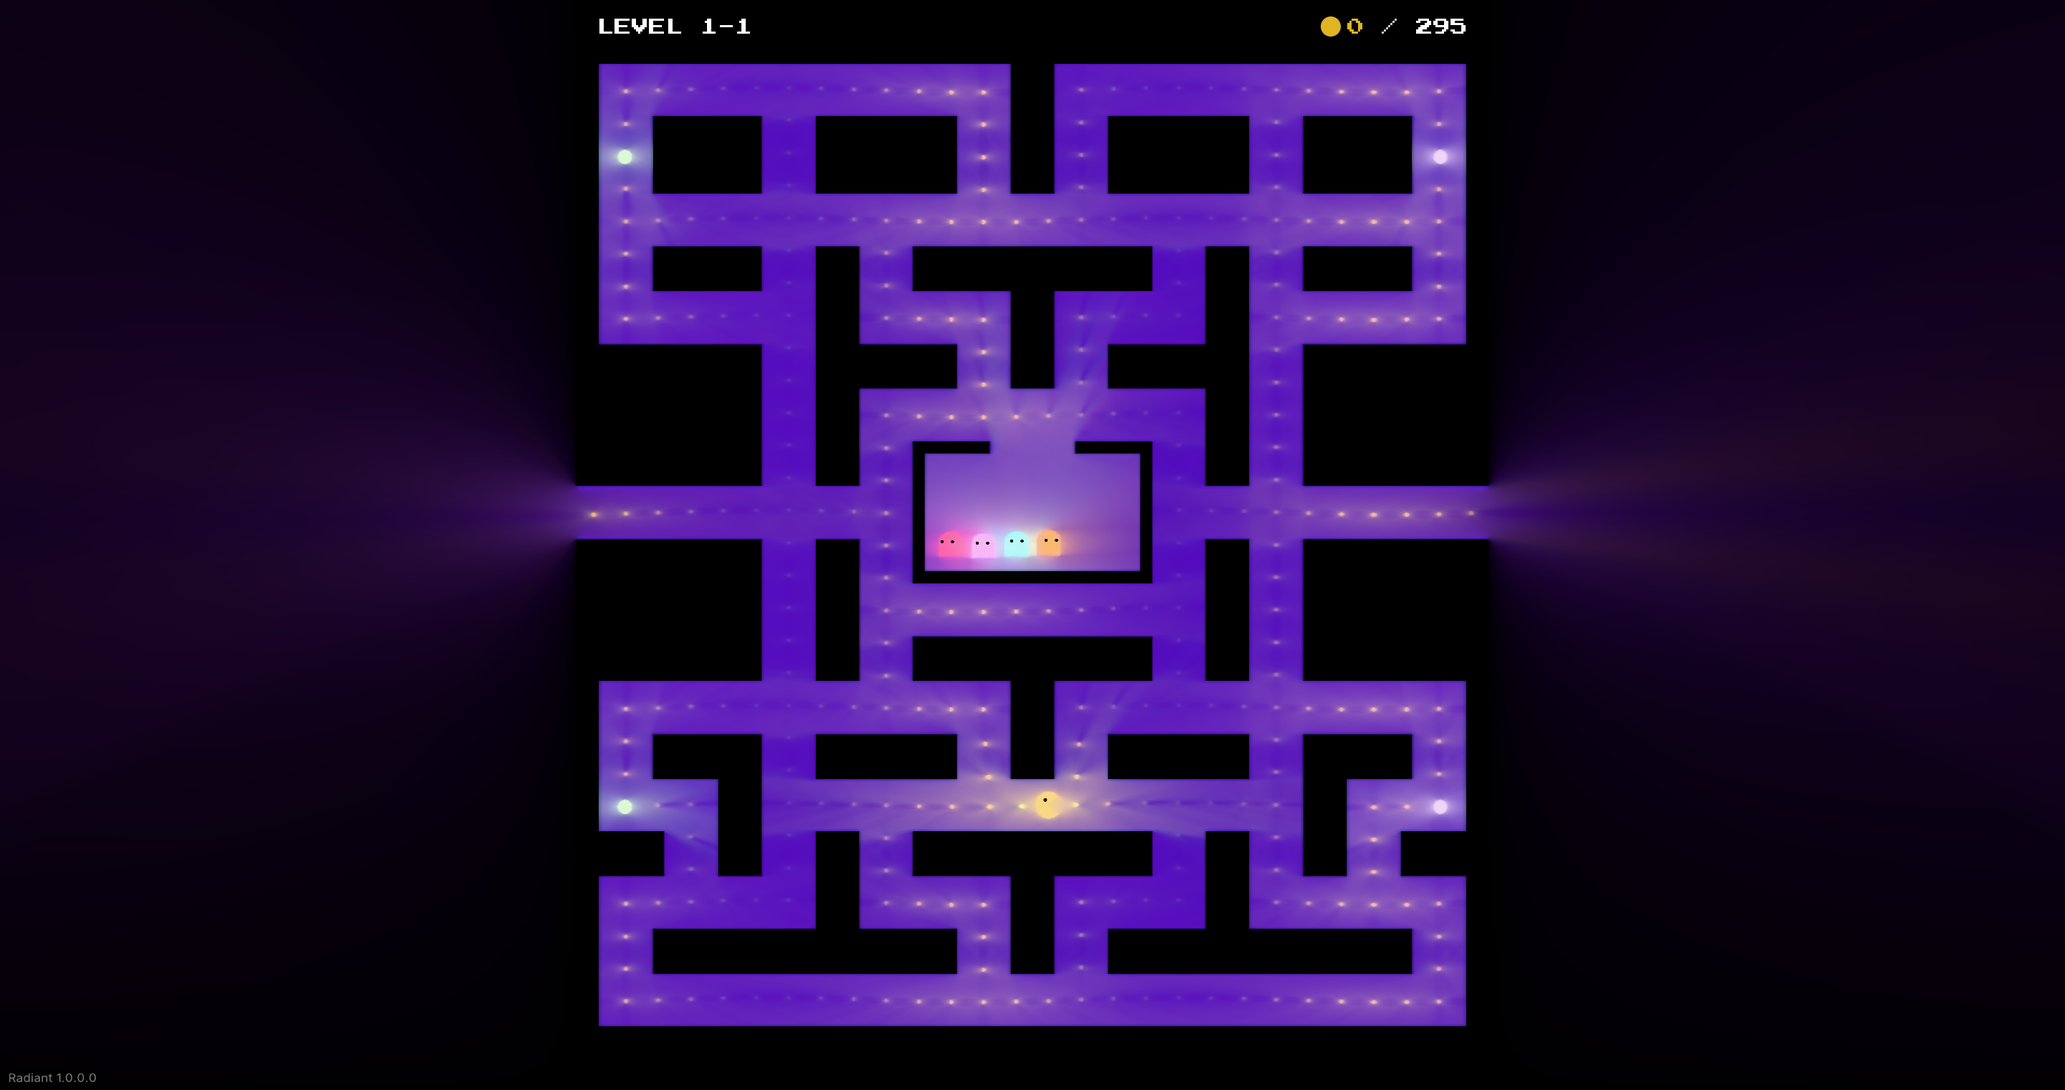
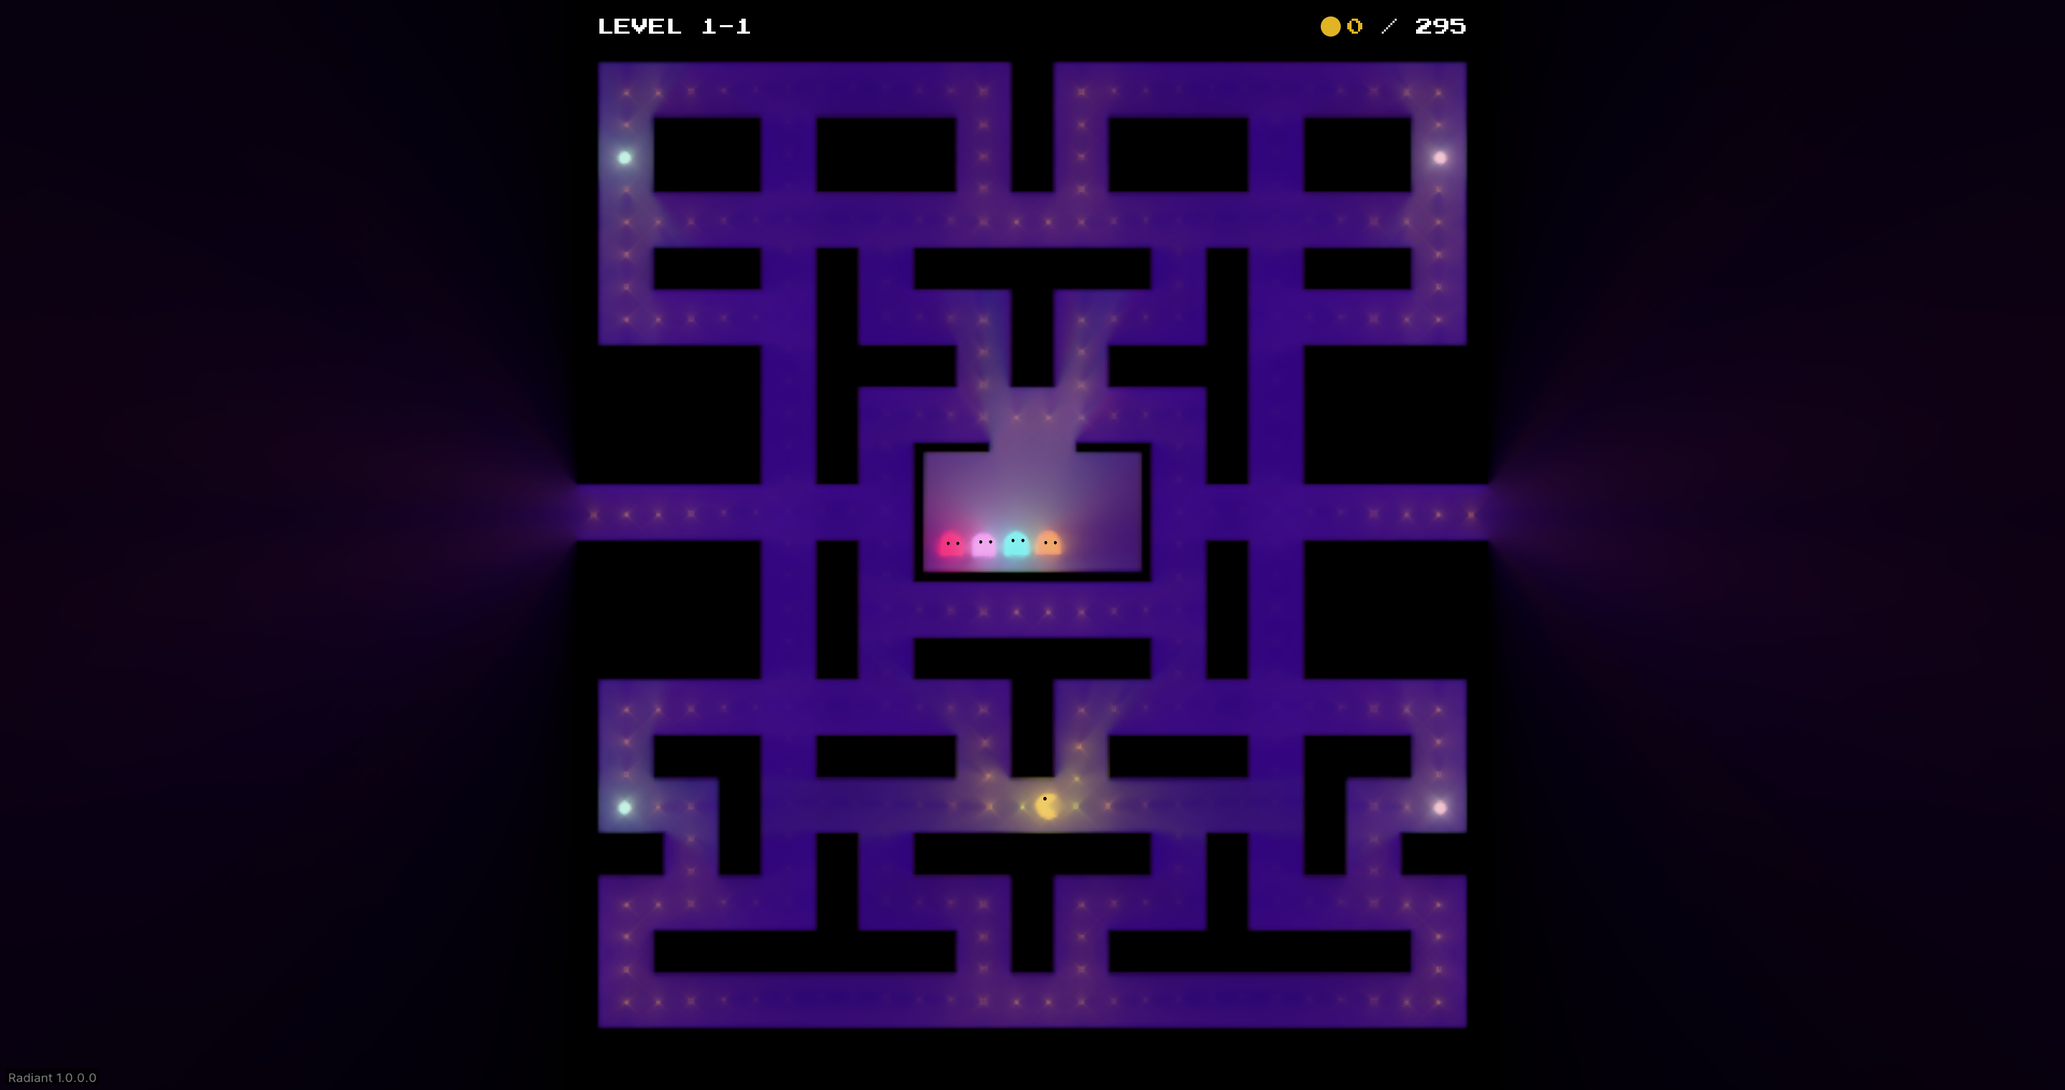
Migrate Pac-Man to Radiant 2D ECS and refresh gameplay captures

Changed region(s): [[0.1875, 0.0309, 0.8438, 0.9579]]

diff --git a/src/Gameplay/PacmanGhostAI.cs b/src/Gameplay/PacmanGhostAI.cs
@@ -205,7 +205,7 @@ public class PacmanGhostAI : com.radiant.engine.core.System
                 material.Emissive = GhostColors[ghostIndex];
             }
 
-            ref var transform = ref Scene.ECS.GetComponent<Transform>(GhostIds[ghostIndex]);
+            ref var transform = ref Scene.ECS.GetComponent<Transform2D>(GhostIds[ghostIndex]);
             var position = new Vector2(transform.Position.X, transform.Position.Y);
             EyePositions[ghostIndex] = position;
             PreviousPositions[ghostIndex] = position;
@@ -364,7 +364,7 @@ public class PacmanGhostAI : com.radiant.engine.core.System
             if (GhostIds[ghostIndex] == -1 || !Scene.ECS.IsAlive(GhostIds[ghostIndex])) continue;
             if (Scene.ECS.IsDisabled(GhostIds[ghostIndex])) continue;
 
-            ref var transform = ref Scene.ECS.GetComponent<Transform>(GhostIds[ghostIndex]);
+            ref var transform = ref Scene.ECS.GetComponent<Transform2D>(GhostIds[ghostIndex]);
             PreviousPositions[ghostIndex] = new Vector2(transform.Position.X, transform.Position.Y);
         }
 
@@ -375,10 +375,11 @@ public class PacmanGhostAI : com.radiant.engine.core.System
                 if (GhostIds[ghostIndex] == -1 || !Scene.ECS.IsAlive(GhostIds[ghostIndex])) continue;
                 if (Scene.ECS.IsDisabled(GhostIds[ghostIndex])) continue;
 
-                ref var transform = ref Scene.ECS.GetComponent<Transform>(GhostIds[ghostIndex]);
+                ref var transform = ref Scene.ECS.GetComponent<Transform2D>(GhostIds[ghostIndex]);
                 float wobble = MathF.Sin(IdleTime * 3f + ghostIndex * 1.7f) * 3f;
                 var position = Positions[ghostIndex];
-                transform.Position = new Vector3(position.X, position.Y + wobble, GhostDepth);
+                transform.Position = new Vector2(position.X, position.Y + wobble);
+                transform.Layer = GhostDepth;
             }
 
             return;
@@ -422,7 +423,7 @@ public class PacmanGhostAI : com.radiant.engine.core.System
                 currentMoveDistance = moveDistance * speedMultiplier;
             }
 
-            ref var transform = ref Scene.ECS.GetComponent<Transform>(GhostIds[ghostIndex]);
+            ref var transform = ref Scene.ECS.GetComponent<Transform2D>(GhostIds[ghostIndex]);
             var position = Positions[ghostIndex];
             var targetPosition = Maze.CellCenter(GhostTargets[ghostIndex].x, GhostTargets[ghostIndex].y);
 
@@ -452,9 +453,10 @@ public class PacmanGhostAI : com.radiant.engine.core.System
             // Apply visual wobble without changing the maze position.
             var (directionX, directionY) = GhostDirections[ghostIndex];
             float wobble = MathF.Sin(ElapsedTime * 5f + ghostIndex * 2.5f) * 4f;
-            transform.Position = new Vector3(
+            transform.Position = new Vector2(
                 position.X + (directionY != 0 ? wobble : 0f),
-                position.Y + (directionX != 0 ? wobble : 0f), GhostDepth);
+                position.Y + (directionX != 0 ? wobble : 0f));
+            transform.Layer = GhostDepth;
 
             if (ExitedHouse[ghostIndex] && !Eaten[ghostIndex] && RespawnTimer[ghostIndex] <= 0f
                 && Player != null && !Player.PlayerCaught)
@@ -948,7 +950,7 @@ public class PacmanGhostAI : com.radiant.engine.core.System
         RainbowEyeDirections = new (int, int)[rainbowCapacity];
         RainbowLogicalPositions = new Vector2[rainbowCapacity];
 
-        ref var transform = ref Scene.ECS.GetComponent<Transform>(RainbowMainId);
+        ref var transform = ref Scene.ECS.GetComponent<Transform2D>(RainbowMainId);
         var position = new Vector2(transform.Position.X, transform.Position.Y);
         RainbowEyePositions[0] = position;
         RainbowPreviousPositions[0] = position;
@@ -1105,10 +1107,11 @@ public class PacmanGhostAI : com.radiant.engine.core.System
 
         if (Player == null || !Player.HasMoved)
         {
-            ref var transform = ref Scene.ECS.GetComponent<Transform>(RainbowMainId);
+            ref var transform = ref Scene.ECS.GetComponent<Transform2D>(RainbowMainId);
             var position = RainbowLogicalPositions[0];
             float wobble = MathF.Sin(RainbowIdleTime * 3f) * 3f;
-            transform.Position = new Vector3(position.X, position.Y + wobble, GhostDepth);
+            transform.Position = new Vector2(position.X, position.Y + wobble);
+            transform.Layer = GhostDepth;
             return;
         }
 
@@ -1267,10 +1270,10 @@ public class PacmanGhostAI : com.radiant.engine.core.System
 
         for (int cloneIndex = RainbowCloneCount - 1; cloneIndex >= 0; cloneIndex--)
         {
-            ref var cloneTransform = ref Scene.ECS.GetComponent<Transform>(RainbowCloneIds[cloneIndex]);
+            ref var cloneTransform = ref Scene.ECS.GetComponent<Transform2D>(RainbowCloneIds[cloneIndex]);
             var clonePosition = new Vector2(cloneTransform.Position.X, cloneTransform.Position.Y);
 
-            ref var mainTransform = ref Scene.ECS.GetComponent<Transform>(RainbowMainId);
+            ref var mainTransform = ref Scene.ECS.GetComponent<Transform2D>(RainbowMainId);
             var mainPosition = new Vector2(mainTransform.Position.X, mainTransform.Position.Y);
 
             if ((clonePosition - mainPosition).LengthSquared() < mergeDistanceSquared)
@@ -1281,7 +1284,7 @@ public class PacmanGhostAI : com.radiant.engine.core.System
 
             for (int otherIndex = cloneIndex - 1; otherIndex >= 0; otherIndex--)
             {
-                ref var otherTransform = ref Scene.ECS.GetComponent<Transform>(RainbowCloneIds[otherIndex]);
+                ref var otherTransform = ref Scene.ECS.GetComponent<Transform2D>(RainbowCloneIds[otherIndex]);
                 var otherPosition = new Vector2(otherTransform.Position.X, otherTransform.Position.Y);
 
                 if ((clonePosition - otherPosition).LengthSquared() < mergeDistanceSquared)
@@ -1326,7 +1329,7 @@ public class PacmanGhostAI : com.radiant.engine.core.System
         else if (RainbowFrightenedTimer > 0f)
             moveDistance *= FrightenedSpeedMultiplier;
 
-        ref var transform = ref Scene.ECS.GetComponent<Transform>(entityId);
+        ref var transform = ref Scene.ECS.GetComponent<Transform2D>(entityId);
         var position = RainbowLogicalPositions[eyeIndex];
         var targetPosition = Maze.CellCenter(targetCell.x, targetCell.y);
 
@@ -1404,9 +1407,10 @@ public class PacmanGhostAI : com.radiant.engine.core.System
 
         // Apply visual wobble without changing the maze position.
         float wobble = MathF.Sin(RainbowElapsedTime * 5f + eyeIndex * 2.5f) * 4f;
-        transform.Position = new Vector3(
+        transform.Position = new Vector2(
             position.X + (direction.dy != 0 ? wobble : 0f),
-            position.Y + (direction.dx != 0 ? wobble : 0f), GhostDepth);
+            position.Y + (direction.dx != 0 ? wobble : 0f));
+        transform.Layer = GhostDepth;
         RainbowEyeDirections[eyeIndex] = direction;
 
         if (Player != null && !Player.PlayerCaught && RainbowMainExitedHouse
@@ -1722,13 +1726,13 @@ public class PacmanGhostAI : com.radiant.engine.core.System
     private void RainbowShiftEyeHistory()
     {
         RainbowEyePositions[0] = RainbowPreviousPositions[0];
-        ref var mainTransform = ref Scene.ECS.GetComponent<Transform>(RainbowMainId);
+        ref var mainTransform = ref Scene.ECS.GetComponent<Transform2D>(RainbowMainId);
         RainbowPreviousPositions[0] = new Vector2(mainTransform.Position.X, mainTransform.Position.Y);
 
         for (int cloneIndex = 0; cloneIndex < RainbowCloneCount; cloneIndex++)
         {
             RainbowEyePositions[1 + cloneIndex] = RainbowPreviousPositions[1 + cloneIndex];
-            ref var cloneTransform = ref Scene.ECS.GetComponent<Transform>(RainbowCloneIds[cloneIndex]);
+            ref var cloneTransform = ref Scene.ECS.GetComponent<Transform2D>(RainbowCloneIds[cloneIndex]);
             RainbowPreviousPositions[1 + cloneIndex] = new Vector2(cloneTransform.Position.X, cloneTransform.Position.Y);
         }
     }

diff --git a/src/Scenes/PacmanMazeLevelScene.cs b/src/Scenes/PacmanMazeLevelScene.cs
@@ -192,7 +192,8 @@ public class PacmanMazeLevelScene : Scene
         UpscalerGroup = new SystemGroup("Upscaler",
             ("UDR1.0", ECS.AddSystem<UDR1>(enabled: false)),
             ("UDR2.0", ECS.AddSystem<UDR2>(enabled: false)),
-            ("UDR3.0", ECS.AddSystem<UDR3>())
+            ("UDR3.0", ECS.AddSystem<UDR3>(enabled: false)),
+            ("UDR4.0", ECS.AddSystem<UDR4>())
         );
         ECS.RegisterSystemGroup(UpscalerGroup);
 
@@ -283,6 +284,7 @@ public class PacmanMazeLevelScene : Scene
 
     private void LoadLevel(int levelIndex)
     {
+        ECS.GetSystem<UDR4>()?.ResetHistory();
         GhostAI.Clear();
         GhostAI.ClearRainbow();
         PlayerController.Clear();
@@ -478,11 +480,11 @@ public class PacmanMazeLevelScene : Scene
                 (byte)MathF.Min(BaseCoinColor.B * brightness, 255f),
                 alpha);
 
-            ref var coinTransform = ref ECS.GetComponent<Transform>(coinId);
+            ref var coinTransform = ref ECS.GetComponent<Transform2D>(coinId);
             coinTransform.Position.X = coinX;
             coinTransform.Position.Y = coinY;
             float coinScale = 1f + proximity * 0.6f;
-            coinTransform.Scale = new Vector3(coinScale, coinScale, 1f);
+            coinTransform.Scale = new Vector2(coinScale);
         }
 
         foreach (var (cell, pelletId) in Maze.PowerPelletCells)
@@ -522,11 +524,11 @@ public class PacmanMazeLevelScene : Scene
                 (byte)MathF.Min((255f * (1f - tint) + rainbow.B * tint) * brightness, 255f),
                 BasePowerPelletColor.A);
 
-            ref var pelletTransform = ref ECS.GetComponent<Transform>(pelletId);
+            ref var pelletTransform = ref ECS.GetComponent<Transform2D>(pelletId);
             pelletTransform.Position.X = pelletX;
             pelletTransform.Position.Y = pelletY;
             float pelletScale = 1f + proximity * 0.6f;
-            pelletTransform.Scale = new Vector3(pelletScale, pelletScale, 1f);
+            pelletTransform.Scale = new Vector2(pelletScale);
         }
 
         Inspector.SetLabel("scene", "level", $"Level: {CurrentLevel + 1}/{Levels.Length}");
@@ -545,6 +547,7 @@ public class PacmanMazeLevelScene : Scene
                 case UDR1 firstUpscaler: firstUpscaler.SetInputSource(colorOutput); break;
                 case UDR2 secondUpscaler: secondUpscaler.SetInputSource(colorOutput); break;
                 case UDR3 thirdUpscaler: thirdUpscaler.SetInputSource(colorOutput); break;
+                case UDR4 temporalUpscaler: temporalUpscaler.SetInputSource(colorOutput); break;
             }
         });
     }
@@ -569,12 +572,13 @@ public class PacmanMazeLevelScene : Scene
 
     private void UpdateWindowVisibility()
     {
-        string[] upscalerWindows = ["udr1", "udr2", "udr3"];
+        string[] upscalerWindows = ["udr1", "udr2", "udr3", "udr4"];
         string activeWindow = UpscalerEnabled ? UpscalerGroup.Active switch
         {
             UDR1 => "udr1",
             UDR2 => "udr2",
             UDR3 => "udr3",
+            UDR4 => "udr4",
             null => "",
             _ => ""
         } : "";

diff --git a/tests/Pacman.Tests/RenderingWindow.cs b/tests/Pacman.Tests/RenderingWindow.cs
@@ -14,6 +14,9 @@ sealed class RenderingWindow : Window
     private readonly PacmanMazeLevelScene Scene = new();
     private readonly (int width, int height, int quality, int upscaler)[] Cases =
     [
+        (1280, 720, 1, 3),
+        (1024, 640, 2, 3),
+        (800, 1000, 0, 3),
         (1280, 720, 1, 2),
         (1024, 640, 2, 2),
         (800, 1000, 0, 2),
@@ -86,7 +89,8 @@ sealed class RenderingWindow : Window
 
         player.Track(player.EntityId, (1, 23), 65530f);
         var playerCenter = maze.CellCenter(1, 23);
-        Scene.ECS.GetComponent<Transform>(player.EntityId).Position = new Vector3(playerCenter, 65530f);
+        Scene.ECS.GetComponent<Transform2D>(player.EntityId).Position = playerCenter;
+        Scene.ECS.GetComponent<Transform2D>(player.EntityId).Layer = 65530f;
         CharacterCenters.Add(playerCenter);
         Scene.ECS.GameplayPaused = true;
         Scene.ECS.AnimationPaused = true;
@@ -168,13 +172,24 @@ sealed class RenderingWindow : Window
             throw new Exception("Tonemapping did not follow lighting resolution.");
 
         com.radiant.engine.core.System[] upscalers =
-        [Scene.ECS.GetSystem<UDR1>(), Scene.ECS.GetSystem<UDR2>(), Scene.ECS.GetSystem<UDR3>()];
+        [Scene.ECS.GetSystem<UDR1>(), Scene.ECS.GetSystem<UDR2>(), Scene.ECS.GetSystem<UDR3>(), Scene.ECS.GetSystem<UDR4>()];
         if (upscalers.Count(upscaler => upscaler.Enabled) != 1 || !upscalers[testCase.upscaler].Enabled)
             throw new Exception("Exactly the selected upscaler must be active.");
+        var temporal = Scene.ECS.GetSystem<UDR4>();
+        if (temporal.Enabled && testCase.quality != 2)
+        {
+            if (temporal.HistoryFrames < 2 || Scene.ECS.GetSystem<Geometry>().TemporalMotionTexture == null)
+                throw new Exception("UDR4 is not accumulating history or receiving precise motion.");
+            var output = temporal.GetOutput();
+            if (output.Width != renderer.ScreenWidth || output.Height != renderer.ScreenHeight)
+                throw new Exception("UDR4 output dimensions are incorrect.");
+        }
+        if ((!temporal.Enabled || testCase.quality == 2) && Scene.ECS.GetSystem<HRCGI>().OutputJitter != Vector2.Zero)
+            throw new Exception("UDR4 jitter leaked into another upscaler or Native mode.");
         if (testCase.quality == 2 && testCase.upscaler > 0)
         {
             var active = upscalers[testCase.upscaler];
-            int accumulatedFrames = (int)active.GetType().GetField("FrameIndex", BindingFlags.Instance | BindingFlags.NonPublic).GetValue(active);
+            int accumulatedFrames = active is UDR4 temporalUpscaler ? temporalUpscaler.HistoryFrames : (int)active.GetType().GetField("FrameIndex", BindingFlags.Instance | BindingFlags.NonPublic).GetValue(active);
             if (accumulatedFrames != 0)
                 throw new Exception("Native mode still runs unused temporal upscaling passes.");
         }

diff --git a/tests/Pacman.Tests/GameplayCaptureWindow.cs b/tests/Pacman.Tests/GameplayCaptureWindow.cs
@@ -1,0 +1,37 @@
+using System;
+using System.IO;
+using System.Linq;
+using com.radiant.engine.runtime;
+using Microsoft.Xna.Framework;
+using RaytracingPacman;
+
+sealed class GameplayCaptureWindow : Window
+{
+    private readonly PacmanMazeLevelScene scene = new();
+    private int frame;
+
+    public GameplayCaptureWindow() : base(new GameLoop(), new() { Title = "Pac-Man gameplay capture", Width = 2880, Height = 1521 })
+    {
+        GameLoop.AddScene(scene);
+        GameLoop.ThrottleUnfocused = false;
+        GameLoop.SetTargetFps(0);
+    }
+
+    protected override void Draw(GameTime gameTime)
+    {
+        base.Draw(gameTime);
+        if (++frame != 12) return;
+
+        var target = scene.Renderer.SceneRT;
+        var pixels = new Color[target.Width * target.Height];
+        target.GetData(pixels);
+        if (target.Width != 2880 || target.Height != 1521 || pixels.Count(pixel => pixel.R > 12 || pixel.G > 12 || pixel.B > 12) < 5000)
+            throw new Exception("Gameplay capture is empty or has the wrong resolution.");
+
+        Directory.CreateDirectory("artifacts/captures");
+        using var output = File.Create("artifacts/captures/gameplay-maximized.png");
+        target.SaveAsPng(output, target.Width, target.Height);
+        Console.WriteLine("CAPTURE: unedited 2880×1521 gameplay frame.");
+        Exit();
+    }
+}

diff --git a/src/Gameplay/PacmanPlayerController.cs b/src/Gameplay/PacmanPlayerController.cs
@@ -151,7 +151,7 @@ public class PacmanPlayerController : com.radiant.engine.core.System
 
         if (!Scene.ECS.IsAlive(EntityId)) return;
 
-        ref var transform = ref Scene.ECS.GetComponent<Transform>(EntityId);
+        ref var transform = ref Scene.ECS.GetComponent<Transform2D>(EntityId);
 
         var position = WorldPosition;
         var targetPosition = Maze.CellCenter(TargetCell.x, TargetCell.y);
@@ -203,7 +203,8 @@ public class PacmanPlayerController : com.radiant.engine.core.System
         float wobble = MathF.Sin(IdleTime * 3f) * 3f;
         WobbleX = CurrentDirection.dy != 0 ? wobble : 0f;
         WobbleY = CurrentDirection.dy != 0 ? 0f : wobble;
-        transform.Position = new Vector3(position.X + WobbleX, position.Y + WobbleY, Depth);
+        transform.Position = new Vector2(position.X + WobbleX, position.Y + WobbleY);
+        transform.Layer = Depth;
         WorldPosition = position;
 
         if (CurrentDirection != (0, 0))

diff --git a/tests/Pacman.Tests/Program.cs b/tests/Pacman.Tests/Program.cs
@@ -41,6 +41,11 @@ else if (args.Contains("--rendering"))
     using var window = new RenderingWindow();
     window.Run();
 }
+else if (args.Contains("--capture"))
+{
+    using var window = new GameplayCaptureWindow();
+    window.Run();
+}
 
 static void ExerciseGame(Scene scene, int frameNumber)
 {
@@ -82,6 +87,7 @@ static void ExerciseGame(Scene scene, int frameNumber)
     if (frameNumber == 35) GetWidget("pipeline", "upscaler").DropdownCallback(0);
     if (frameNumber == 45) GetWidget("pipeline", "upscaler").DropdownCallback(1);
     if (frameNumber == 55) GetWidget("pipeline", "upscaler").DropdownCallback(2);
+    if (frameNumber == 65) GetWidget("pipeline", "upscaler").DropdownCallback(3);
     if (frameNumber == 70) GetWidget("scene", "restartLevel").ButtonCallback();
 
     if (frameNumber == 75)

diff --git a/BUILD.md b/BUILD.md
@@ -16,7 +16,7 @@ git clone https://github.com/lestercorderomurillo/raytracing-pacman.git
 cd raytracing-pacman
 ```
 
-Use Radiant v0.1.1 or a compatible later revision for the HRC viewport correction. Keep both checkouts on compatible revisions. The [v0.1.2 release notes](https://github.com/lestercorderomurillo/raytracing-pacman/releases/tag/v0.1.2) record the exact revisions used for that release.
+Use [Radiant v0.2.0](https://github.com/lestercorderomurillo/radiant-game-engine/releases/tag/v0.2.0) for the `Transform2D` ECS API and UDR4 renderer. Pac-Man v0.2.0 is paired with that engine release. Keep both checkouts on compatible revisions.
 
 ## Build and run
 
@@ -61,13 +61,13 @@ dotnet run --project tests/Pacman.Tests -c Release
 dotnet run --project tests/Pacman.Tests -c Release -- --graphics
 ```
 
-**Rendering regressions** check eye alignment from actual rendered pixels, all three UDR upscalers and quality levels, HRC lighting, resizing, and disabling/re-enabling upscaling. Maze emission and light blocking are checked on every frame, including startup and immediately after resizing:
+**Rendering regressions** check eye alignment from actual rendered pixels, all four UDR upscalers and quality levels, HRC lighting, resizing, and disabling/re-enabling upscaling. Maze emission and light blocking are checked on every frame, including startup and immediately after resizing:
 
 ```sh
 dotnet run --project tests/Pacman.Tests -c Release -- --rendering
 ```
 
-Gameplay starts with UDR3 in Balanced quality (50% lighting render scale). F1 opens the inspector; use Pipeline to select the upscaler and its quality settings to choose Performance (25%), Balanced (50%), or Native (100%).
+Gameplay starts with UDR4 in Balanced quality (50% lighting render scale). F1 opens the inspector; use Pipeline to select the upscaler and its quality settings to choose Performance (25%), Balanced (50%), or Native (100%).
 
 **Presented-window checks** require an X11/XWayland desktop, Python with Pillow, `xdotool`, and ImageMagick:
 
@@ -88,3 +88,7 @@ dotnet publish raytracing-pacman.csproj -c Release -r linux-x64 --self-contained
 ```
 
 The output includes the .NET runtime, engine, and game content. Keep the published files together. Content paths resolve relative to the executable, so it can launch from another working directory.
+
+UDR4 requires the matching engine checkout with `UDR4` and its shader. It reconstructs jittered HRC lighting with floating-point motion and conservative temporal history rejection. UDR1–3 remain available for comparisons. See [engine UDR4 notes](../radiant-game-engine/docs/UDR4.md) for limitations and validation.
+
+To refresh the unedited 2880×1521 gameplay capture, run the test harness with `--capture` on an isolated display. It validates the resolution and visible content before saving `artifacts/captures/gameplay-maximized.png`.
